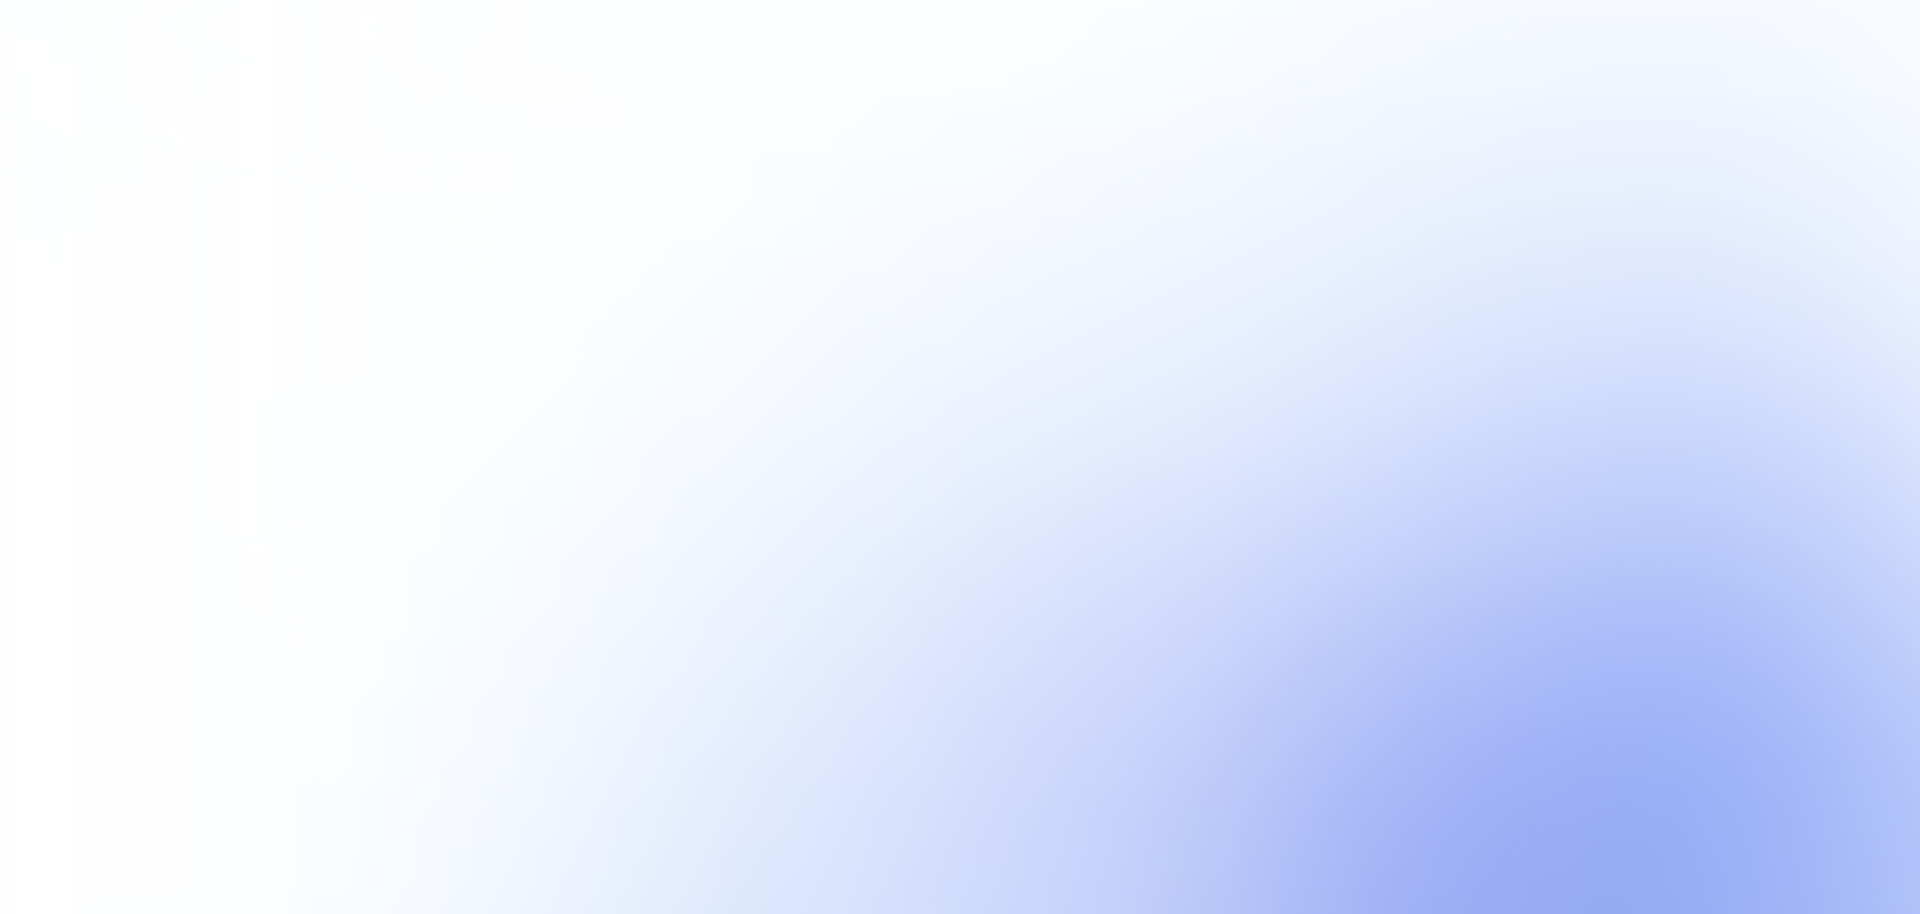
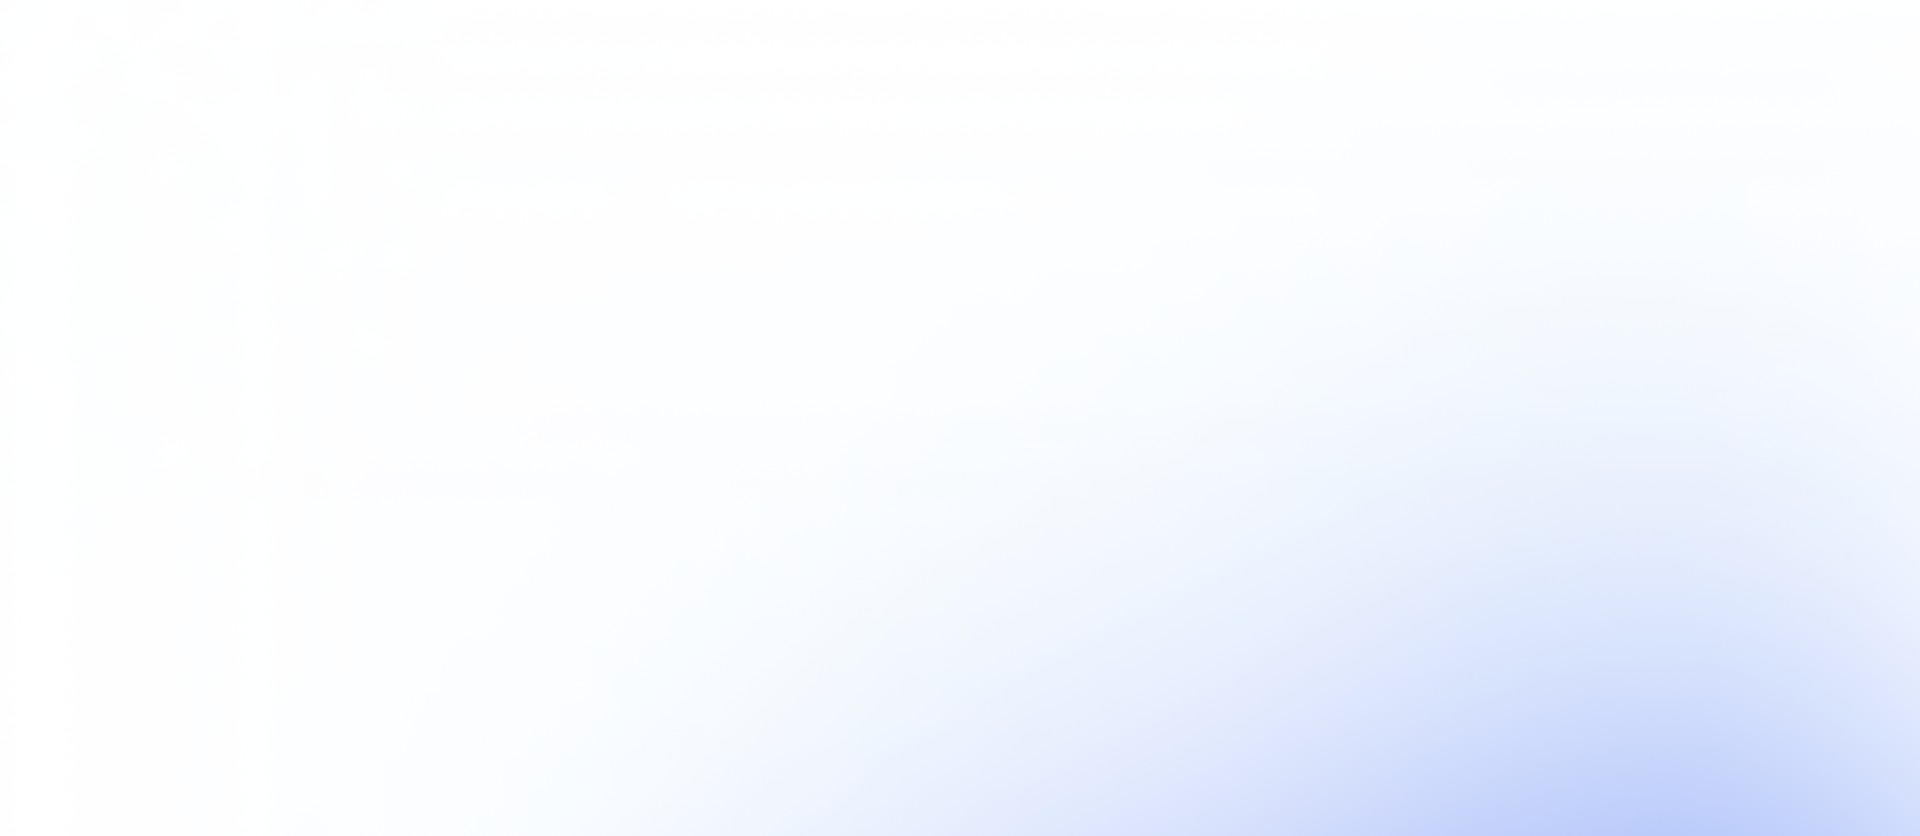
latest changes

Changed region(s): [[0.4688, 0.2799, 1.0, 1.0]]

diff --git a/src/sections/free/hero/index.jsx b/src/sections/free/hero/index.jsx
@@ -36,7 +36,7 @@ import heroImageDark from "assets/img/pro/hero/hero-image-dark.png";
 import heroImageLight from "assets/img/pro/hero/hero-image-light.png";
 import heroBgDark from "assets/img/pro/hero/heroBgDark.png";
 // Assets
-import heroBgLight from "assets/img/pro/hero/heroBgLight.png";
+import heroBg from "assets/img/free/hero/heroBg.png";
 import {
   ChakraLogo,
   FigmaLogo,
@@ -50,7 +50,7 @@ import InnerContent from "layouts/innerContent";
 import React from "react";
 
 export default function Hero() {
-  const background = useColorModeValue(heroBgLight, heroBgDark);
+  const background = useColorModeValue(heroBg, heroBgDark);
   const heroImage = useColorModeValue(heroImageLight, heroImageDark);
   // Chakra Color Mode
   const textColor = useColorModeValue("secondaryGray.900", "white");
@@ -181,7 +181,7 @@ export default function Hero() {
           lg: "-250px",
           xl: "-210px",
           "2xl": "-174px",
-          "3xl": "-174px",
+          "3xl": "-30px",
         }}
         position={{ base: "relative", lg: "absolute" }}
       />
